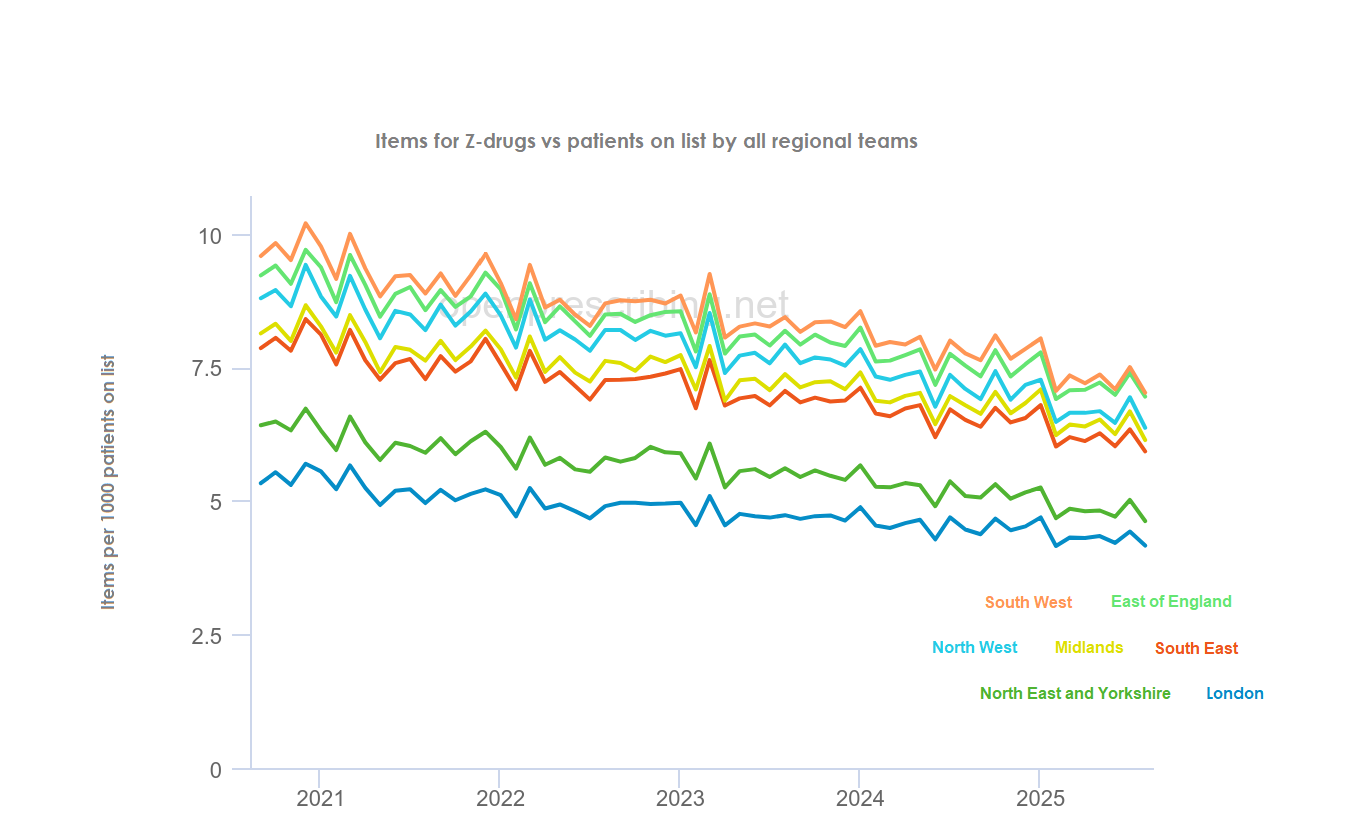
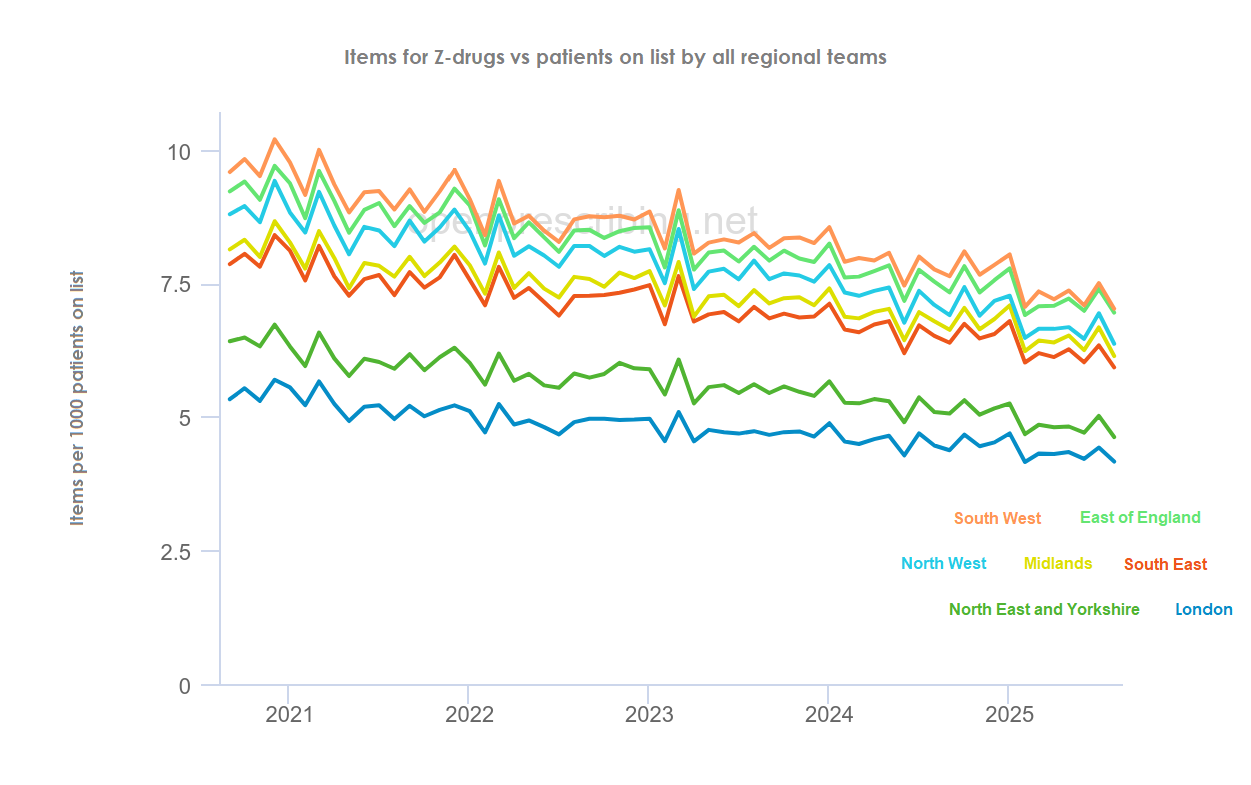
Update website content and layout

diff --git a/posts.html b/posts.html
@@ -78,30 +78,32 @@
            <p><i>~I am curious about prescribing data. </i> </p>
            <p> </p>
            <p> </p>
-           <p> <b>A First Glance at NHS GP Prescribing of Sleep Medications: Z-Drugs (2020–2025) Using OpenPrescribing</b></p>
+           <p> <b>A First Glance at NHS GP Prescribing of Sleep Medications: Z-Drugs (2020-2025) Using OpenPrescribing</b></p>
            <p class="small-text" style="text-align:justify;"> (First Published Online 10 November 2025)</p>
-           <p> I have worked on a range of data-driven projects for some time, OpenPrescribing was entirely new to me.  Curious about who it was built for, how it works, and whether I could find something interesting or inspiring,  I decided to dive in and give it a try. From time to time, I explored OpenPrescribing, mostly to become familiar with its features. I found it to be an excellent example of how simplicity and power can coexist in a well-designed tool, and I was impressed by its clean, intuitive interface and surprisingly strong analytical capabilities.</p>
-           <p>I took a closer look recently at OpenPrescribing after coming across a topic that drew my interest - sleep medications. Although sleeping pills are prescribed to aim sleep and support health, research suggests that deprescribing unnecessary sleep drugs can improve well-being and benefit in older adults [1], as these medications are linked to cognitive decline and increased injury risk [2-5] . Interested in prescribing patterns and potential regional differences, I looked into GP prescriptions in England (2020 - 2025) for Z-drugs (Zopiclone, Zolpidem), commonly used for the short-term treatment of insomnia, using the OpenPrescribing platform.</p>
-           <p>Here’s what I did: In <a href="https://openprescribing.net/"> OpenPrescribing </a>, click “Start analysing” to launch the “Analyse” interface. Enter the drug names and select lists containing all available formulations (tablets, capsules, liquids, and suspensions) across all doses. Then choose “versus – total list size,” highlight “NHS England Region” and click “Show me the data” to generate figures and a downloadable CSV data file. Following this process, I obtained Figure 1 (line chart), which shows the prescribing trend for Z-drugs by region from 2020 to 2025. Figure 2 (map) and Figure 3 (bar chart) present snapshots of prescribing rates across regions in September 2020 and August 2025. </p>
-           <p>My preliminary observations revealed three key findings:</p>
-           <p> Despite periodic ups and downs in prescribing rates across regions, overall prescribing declined gradually, showing a consistent and marked downward trend from 2020 to 2025. A recurrent bimodal seasonal pattern is also evident, characterised by an initial peak in December, a drop in January, and a subsequent rise to a higher peak in March. Finally, there is substantial and persistent regional variation in the prescribing rate, with the South West's average monthly rate (8.5 items per 1,000 patients) consistently being about 1.8 times that of London (4.8 per 1,000) over the 2021–2025 period. </p> 
+           <p>I have worked on a range of data-driven projects for some time, OpenPrescribing was entirely new to me. Curious about who it was built for, how it works, and whether I could find something interesting or inspiring, I decided to dive in and give it a try. Occasionally, I explored OpenPrescribing to familiarize myself with its features. I found it to be an excellent example of how simplicity and functionality can coexist in a well-designed tool, and I was particularly impressed by its clean, intuitive interface and robust analytical capabilities.</p>
+           <p>I took a closer look recently at OpenPrescribing after coming across a topic that drew my interest - sleep medications. Although sleeping pills are prescribed to aim sleep and support health, research suggests that deprescribing unnecessary sleep drugs can improve well-being and benefit in older adults [1], as these medications are linked to cognitive decline and increased injury risk [2-5]. Interested in prescribing patterns and potential regional differences, I looked into GP prescriptions in England (2020-2025) for Z-drugs, commonly used for the short-term treatment of insomnia, using the OpenPrescribing platform.</p>
+           <p>Z drugs - zopiclone, zolpidem and eszopiclone, licensed only for short-term use, are considered when first-line non-drug treatments such as sleep hygiene and cognitive behavioural therapy for insomnia (CBT-I) are insufficient, or as an adjunct to these approaches. Here’s what I did: In <a href="https://openprescribing.net/"> OpenPrescribing </a>, click “Start analysing” to launch the “Analyse” interface. Enter the drug names and select lists containing all available formulations (tablets, capsules, liquids, and suspensions) across all doses. Then choose “versus – total list size,” highlight “NHS England Region” and click “Show me the data” to generate figures and a downloadable CSV data file. Following this process, I obtained Figure 1 (a line chart) showing regional prescribing trends for Z-drugs from 2020 to 2025, from which my preliminary observations revealed three key findings. </p>
+           <p>Despite periodic ups and downs in prescribing rates across regions, overall prescribing declined gradually, showing a consistent and marked downward trend from 2020 to 2025. A recurrent bimodal seasonal pattern is also evident, characterised by an initial peak in December, a drop in January, and a subsequent rise to a higher peak in March. Finally, there is substantial and persistent regional variation in the prescribing rate, with the South West's average monthly rate (8.5 items per 1,000 patients) consistently being about 1.8 times that of London (4.8 per 1,000) over the 2021-2025 period. </p> 
+           <p>Sensitivity analyses - when melatonin (a hormone used to treat short-term sleep problems in adults aged 55+) was added to Z-drugs, London remained the lowest, while the South West remained the highest (Figure 2).
+            When melatonin was included alongside both Z-drugs and hypnotic benzodiazepines (Nitrazepam, Loprazolam, Lormetazepam, Temazepam), London again had the lowest prescribing rate, whereas the East of England and South West were at the top, with the East of England showing slightly higher prescribing rates (Figure 3).</p>
+        
            <p>These visual findings also raise several further questions:</p>
         
            <ul>
-           <li> What factors are driving the overall decline in prescriptions across England? Are policy changes, clinical guidelines, or public awareness campaigns contributing to this decline? </li>
+            <li> What factors are driving the overall decline in prescriptions across England? Are policy changes, clinical guidelines, or public awareness campaigns contributing to this decline? </li>
             <li> What explains the recurring seasonal peaks in December and March, across all regions? Are these seasonal trends driven more by healthcare system practices or actual fluctuations in patient demand?</li>
-            <li>Why do prescribing rates vary regionally, with the South West being the highest and London the lowest? Geographically, the South West is generally more rural than London. Urban areas like London often involve demanding lifestyles (commuting, noise, and fast-paced living), yet stress alone may not necessarily lead to higher prescribing rates. It remains unclear how, and to what extent, regional demographics, healthcare access, socioeconomic factors, or other unmeasured variables influence these differences.</li>
+            <li> Why do prescribing rates vary regionally, with the South West highest, followed by the East of England, and London lowest? Geographically, the South West is generally more rural, whereas London is a densely populated urban area. While urban living can involve demanding lifestyles - such as commuting, noise, and fast-paced routines - that may contribute to stress, these factors alone do not appear to drive higher prescribing rates. It remains unclear how, and to what extent, regional demographics, healthcare access, socioeconomic factors, or other unmeasured variables influence these differences, which merits further study.</li>
            </ul>
-            <p>Sensitivity analyses (2020–2025): When melatonin (a hormone used to treat short-term sleep problems in adults aged 55+) was added to Z-drugs, London remained the lowest, while the South West remained the highest (Figure 2).
-            When melatonin was included alongside both Z-drugs and hypnotic benzodiazepines (Nitrazepam, Loprazolam, Lormetazepam, Temazepam), London again had the lowest prescribing rate, whereas the East of England and South West were at the top, with the East of England showing slightly higher prescribing rates (Figure 3).</p>
-        
-            <p>It is worth noting that the observations so far have focused solely on prescriptions in relation to total list size across regions. The prescribing data can also be examined at other levels - such as by practice, Sub-ICB location, PCN, ICB, or by focusing on specific drugs or BNF sections for more detailed comparisons. The downloadable file enables more extensive and independent offline analysis.</p>
-      
-            <p>To gain more details on these sleep medications, I also explored “Trend for BNF sections”, in chapter 4 (Central Nervous System), under 4.1 <i>Hypnotics and anxiolytics</i>, examining each drug individually, their prescribing items and spending across all practices in England. Zopiclone had substantially higher prescribing activity and costs compared with Zolpidem (Figure 4).
+
+            <p>To gain more details on these sleep medications, I also explored “Trend for BNF sections”, in chapter 4 (Central Nervous System), under 4.1 <i>Hypnotics and anxiolytics</i>, examining each drug individually, their prescribing items and spending across all practices in England. Zopiclone had substantially higher prescribing activity and costs compared with Zolpidem. According to NICE prescribing information (last revised November 2025), Eszopiclone is listed as a Z-drug licensed for the short-term management of insomnia. To date, only a small number of Eszopiclone prescriptions have been recorded, with the earliest appearing in June 2025 (Figure 4).
      
-           <p class="mb-2">Like walking along the beach in search of hidden treasure, I began my first real exploration of the prescribing data with no expectations. The experience proved to be exciting, revealing intriguing findings and questions worth pursuing - whether to inspire future research or to understand the reasons behind them. 
+            <p>It is worth noting that the observations so far have focused solely on prescriptions in relation to total list size across regions. The prescribing data can also be examined at other levels - such as by practice, Sub-ICB location, PCN, ICB, or by focusing on specific drugs or BNF sections for more detailed comparisons. The downloadable file enables more extensive and independent offline analysis.
+              Additionally, the knowledge shared in the open environment acted as a signpost or guide, and I have successfully retrieved relevant data from the English Prescribing Dataset (EPD) for deeper analysis.
+            </p>
+      
+            <p class="mb-2">Like walking along the beach in search of hidden treasure, I began my first real exploration of the prescribing data with no expectations. The experience proved to be exciting, revealing intriguing findings and questions worth pursuing - whether to inspire future research or to understand the reasons behind them. 
             It was an engaging and rewarding journey of discovery, made possible by OpenPrescribing - an open, rapid and highly valuable platform that unlocks insights into prescribing practices, facilitates the identification of trends, variations, and regional differences, and highlights potential areas for intervention to enhance healthcare delivery.</p>
-           <p></p>
+            <p></p>
 
          <div class="row">
            <div class="col-md-6 d-flex flex-column align-items-start"> 
@@ -122,14 +124,11 @@
              </div>  
       
            <div class="col-md-6 d-flex flex-column align-items-center"> 
-             <img src="/assets/img/items_Zopiclone_Zolpidem_2020_2025.png" alt="Figure4" class="responsive-img">
-             <p class="small-text text-center">Figure 4: Total prescribing items for Z-drugs cross all practices in England (2020 - 2025) </p>
+             <img src="/assets/img/items_spending_Zopiclone_Zolpidem_Eszopiclone.png" alt="Figure4" class="responsive-img">
+             <p class="small-text text-center">Figure 4: Total prescribing items and spending for Z-drugs cross all practices in England (2020 - 2025) </p>
             </div>
          </div>
-           <div class="col-md-6 d-flex flex-column align-items-center"> 
-             <img src="/assets/img/spending_Zopiclone_Zolpidem_2020_2025.png" alt="Figure5" class="responsive-img">
-             <p class="small-text text-center">Figure 5: Total spending for Z-drugs cross all practices in England (2020 - 2025) </p>
-            </div>
+
 
          </div>
              <nav class="d-inline-flex mt-2 mt-md-0 ms-md-auto"> <a class="me-3 py-2 text-decoration-none" href="posts2.html"> Next Post </a> </nav>

diff --git a/posts2.html b/posts2.html
@@ -194,10 +194,10 @@
 
     <div class="col-md-6">
         <p class="mt-0"> <b>Share analysis</b></p>
-        <p class="small-text"> <a style="text-decoration: none; display: inline-block;" href="https://openprescribing.net/analyse/#org=regional_team&numIds=0401010Z0,0401010Z0AA,0401010Z0AAAJAJ,0401010Z0AAACAC,0401010Z0AAABAB,0401010Z0AAAKAK,0401010Z0AAAMAM,0401010Z0AAALAL,0401010Z0AAAAAA,0401010Z0BBAAAA,0401010Z0BBABAC,0401010Y0,0401010Y0AA,0401010Y0AAAEAE,0401010Y0AAABAB,0401010Y0AAACAC,0401010Y0AAADAD,0401010Y0AAAAAA,0401010R0AAAUAU,0401010R0AAAAAA,0401010R0AAAQAQ,0401010R0AAAVAV,0401010R0AAATAT,0401010R0AAAXAX,0401010R0AAACAC,0401010R0AAANAN,0401010R0BD,0401010R0BDAAAC,0401010N0,0401010N0AA,0401010N0AAAAAA,0401010P0AAAHAH,0401010P0AAAGAG,0401010P0AAACAC,0401010P0AAAFAF,0401010P0AAABAB,0401010T0AAAEAE,0401010T0AAAMAM,0401010T0AAANAN,0401010T0,0401010T0AA&denom=total_list_size&selectedTab=summary"> Z-drugs + Benzodiazepines</a> &nbsp; &nbsp;
-          <a style="text-decoration: none;" href="https://openprescribing.net/analyse/#org=regional_team&numIds=0401010Z0,0401010Z0AA,0401010Z0AAAJAJ,0401010Z0AAACAC,0401010Z0AAABAB,0401010Z0AAAKAK,0401010Z0AAAMAM,0401010Z0AAALAL,0401010Z0AAAAAA,0401010Z0BBAAAA,0401010Z0BBABAC,0401010Y0,0401010Y0AA,0401010Y0AAAEAE,0401010Y0AAABAB,0401010Y0AAACAC,0401010Y0AAADAD,0401010Y0AAAAAA&denom=total_list_size&selectedTab=summary"> Z-drugs </a> &nbsp; &nbsp;&nbsp;
-          <a style="text-decoration: none; display: inlineblock;" href="https://openprescribing.net/analyse/#org=regional_team&numIds=0401010ADBC,0401010ADBCBZCY,0401010ADBCCACY,0401010ADBCCDAE,0401010ADBCCBBR,0401010ADBCCEBS,040101000BBAQA0,0401010ADAACDCD,0401010ADAACECE,0401010ADAAAKAK,0401010ADAACNCN,0401010ADAABTBT,0401010ADAABQBQ,0401010ADAACTCT,0401010ADAACZCZ,0401010ADAACUCU,0401010ADAAAIAI,0401010ADAABMBM,0401010ADAACFCF,0401010ADAACGCG,0401010ADAAAHAH,0401010ADAACRCR,0401010ADAABYBY,0401010ADAABZBZ,0401010ADAAAEAE,0401010ADAADFDF,0401010ADAACHCH,0401010ADAAAAAA,0401010ADAABKBK,0401010ADAACACA,0401010ADAACBCB,0401010ADAABRBR,0401010ADAABIBI,0401010ADAAAJAJ,0401010ADAAAQAQ,0401010ADAACCCC,0401010ADAACYCY,0401010ADAABGBG,0401010ADAADCDC,0401010ADAAAUAU,0401010ADAACPCP,0401010ADAAACAC,0401010ADAAASAS,0401010ADAADADA,0401010ADAADDDD,0401010ADAADEDE,0401010ADAABSBS,0401010ADAACVCV,0401010ADAABLBL,0401010ADAABWBW,0401010ADAABVBV,0401010ADAACXCX,0401010ADAACQCQ,0401010ADAACICI,0401010ADAACLCL,0401010ADAACMCM,0401010ADAACSCS,0401010ADAABJBJ,0401010ADAACWCW,0401010ADBCCCBL,0401010ADBB,0401010ADBBAAAA,0401010ADBG,0401010ADBGAAAI,0401010ADBGABBK,0401010ADBGACCY,0401010ADBGADCP,0401010ADBGAEBL,0401010ADBF,0401010ADBFABCZ,0401010ADBFAACY,0401010ADBD,0401010ADBDAACU,0401010ADBDABCV,0401010ADBE,0401010ADBEAACY,0401010Z0,0401010Z0AA,0401010Z0AAAJAJ,0401010Z0AAACAC,0401010Z0AAABAB,0401010Z0AAAKAK,0401010Z0AAAMAM,0401010Z0AAALAL,0401010Z0AAAAAA,0401010Z0BBAAAA,0401010Z0BBABAC,0401010Y0,0401010Y0AA,0401010Y0AAAEAE,0401010Y0AAABAB,0401010Y0AAACAC,0401010Y0AAADAD,0401010Y0AAAAAA&denom=total_list_size&selectedTab=summary"> Z-drugs + Melatonin </a> &nbsp; &nbsp;
-          <a style="text-decoration: none; display: inline-block;" href="https://openprescribing.net/analyse/#org=regional_team&numIds=0401010Z0,0401010Z0AA,0401010Z0AAAJAJ,0401010Z0AAACAC,0401010Z0AAABAB,0401010Z0AAAKAK,0401010Z0AAAMAM,0401010Z0AAALAL,0401010Z0AAAAAA,0401010Z0BBAAAA,0401010Z0BBABAC,0401010Y0,0401010Y0AA,0401010Y0AAAEAE,0401010Y0AAABAB,0401010Y0AAACAC,0401010Y0AAADAD,0401010Y0AAAAAA,0401010R0AAAUAU,0401010R0AAAAAA,0401010R0AAAQAQ,0401010R0AAAVAV,0401010R0AAATAT,0401010R0AAAXAX,0401010R0AAACAC,0401010R0AAANAN,0401010R0BD,0401010R0BDAAAC,0401010N0,0401010N0AA,0401010N0AAAAAA,0401010P0AAAHAH,0401010P0AAAGAG,0401010P0AAACAC,0401010P0AAAFAF,0401010P0AAABAB,0401010T0AAAEAE,0401010T0AAAMAM,0401010T0AAANAN,0401010T0,0401010T0AA,0401010ADBC,0401010ADBCBZCY,0401010ADBCCACY,0401010ADBCCDAE,0401010ADBCCBBR,0401010ADBCCEBS,040101000BBAQA0,0401010ADAACDCD,0401010ADAACECE,0401010ADAAAKAK,0401010ADAACNCN,0401010ADAABTBT,0401010ADAABQBQ,0401010ADAACTCT,0401010ADAACZCZ,0401010ADAACUCU,0401010ADAABMBM,0401010ADAAAIAI,0401010ADAACFCF,0401010ADAACGCG,0401010ADAACRCR,0401010ADAABYBY,0401010ADAABZBZ,0401010ADAAAHAH,0401010ADAAAEAE,0401010ADAADFDF,0401010ADAACHCH,0401010ADAABKBK,0401010ADAACACA,0401010ADAACBCB,0401010ADAABRBR,0401010ADAABIBI,0401010ADAAAJAJ,0401010ADAAAQAQ,0401010ADAACCCC,0401010ADAACYCY,0401010ADAADCDC,0401010ADAAAUAU,0401010ADAACPCP,0401010ADAAACAC,0401010ADAAASAS,0401010ADAADADA,0401010ADAADDDD,0401010ADAADEDE,0401010ADAABSBS,0401010ADAACVCV,0401010ADAABLBL,0401010ADAABWBW,0401010ADAABVBV,0401010ADAACXCX,0401010ADAACQCQ,0401010ADAACICI,0401010ADAACLCL,0401010ADAACMCM,0401010ADAACSCS,0401010ADAABJBJ,0401010ADAACWCW,0401010ADBCCCBL,0401010ADAABGBG,0401010ADAAAAAA,0401010ADBB,0401010ADBBAAAA,0401010ADBD,0401010ADBDAACU,0401010ADBDABCV,0401010ADBG,0401010ADBGAAAI,0401010ADBGABBK,0401010ADBGACCY,0401010ADBGADCP,0401010ADBGAEBL,0401010ADBF,0401010ADBFABCZ,0401010ADBFAACY,0401010ADBE,0401010ADBEAACY&denom=total_list_size&selectedTab=summary"> Z-drugs + Benzodiazepines + Melatonin</a> &nbsp; &nbsp;
+        <p class="small-text"> <a style="text-decoration: none; display: inline-block;" href="https://openprescribing.net/analyse/#org=regional_team&numIds=0401010AE,0401010AEAA,0401010AEAAAAAA,0401010AEAAABAB,0401010AEAAACAC,0401010Z0,0401010Z0AA,0401010Z0AAAJAJ,0401010Z0AAACAC,0401010Z0AAABAB,0401010Z0AAAKAK,0401010Z0AAAMAM,0401010Z0AAALAL,0401010Z0AAAAAA,0401010Z0BBAAAA,0401010Z0BBABAC,0401010Y0,0401010Y0AA,0401010Y0AAAEAE,0401010Y0AAABAB,0401010Y0AAACAC,0401010Y0AAADAD,0401010Y0AAAAAA,0401010R0AAAUAU,0401010R0AAAAAA,0401010R0AAAQAQ,0401010R0AAAVAV,0401010R0AAATAT,0401010R0AAAXAX,0401010R0AAACAC,0401010R0AAANAN,0401010R0BD,0401010R0BDAAAC,0401010N0,0401010N0AA,0401010N0AAAAAA,0401010P0AAAHAH,0401010P0AAAGAG,0401010P0AAACAC,0401010P0AAAFAF,0401010P0AAABAB,0401010T0AAAEAE,0401010T0AAAMAM,0401010T0AAANAN,0401010T0,0401010T0AA&denom=total_list_size&selectedTab=summary"> Z-drugs + Benzodiazepines</a> &nbsp; &nbsp;
+          <a style="text-decoration: none;" href="https://openprescribing.net/analyse/#org=regional_team&numIds=0401010Z0,0401010Z0AA,0401010Z0AAAJAJ,0401010Z0AAACAC,0401010Z0AAABAB,0401010Z0AAAKAK,0401010Z0AAAMAM,0401010Z0AAALAL,0401010Z0AAAAAA,0401010Z0BBAAAA,0401010Z0BBABAC,0401010Y0,0401010Y0AA,0401010Y0AAAEAE,0401010Y0AAABAB,0401010Y0AAACAC,0401010Y0AAADAD,0401010Y0AAAAAA,0401010AE,0401010AEAA,0401010AEAAAAAA,0401010AEAAABAB,0401010AEAAACAC&denom=total_list_size&selectedTab=summary"> Z-drugs </a> &nbsp; &nbsp;&nbsp;
+          <a style="text-decoration: none; display: inlineblock;" href="https://openprescribing.net/analyse/#org=regional_team&numIds=0401010AE,0401010AEAA,0401010AEAAAAAA,0401010AEAAABAB,0401010AEAAACAC,0401010ADBC,0401010ADBCBZCY,0401010ADBCCACY,0401010ADBCCDAE,0401010ADBCCBBR,0401010ADBCCEBS,040101000BBAQA0,0401010ADAACDCD,0401010ADAACECE,0401010ADAAAKAK,0401010ADAACNCN,0401010ADAABTBT,0401010ADAABQBQ,0401010ADAACTCT,0401010ADAACZCZ,0401010ADAACUCU,0401010ADAAAIAI,0401010ADAABMBM,0401010ADAACFCF,0401010ADAACGCG,0401010ADAAAHAH,0401010ADAACRCR,0401010ADAABYBY,0401010ADAABZBZ,0401010ADAAAEAE,0401010ADAADFDF,0401010ADAACHCH,0401010ADAAAAAA,0401010ADAABKBK,0401010ADAACACA,0401010ADAACBCB,0401010ADAABRBR,0401010ADAABIBI,0401010ADAAAJAJ,0401010ADAAAQAQ,0401010ADAACCCC,0401010ADAACYCY,0401010ADAABGBG,0401010ADAADCDC,0401010ADAAAUAU,0401010ADAACPCP,0401010ADAAACAC,0401010ADAAASAS,0401010ADAADADA,0401010ADAADDDD,0401010ADAADEDE,0401010ADAABSBS,0401010ADAACVCV,0401010ADAABLBL,0401010ADAABWBW,0401010ADAABVBV,0401010ADAACXCX,0401010ADAACQCQ,0401010ADAACICI,0401010ADAACLCL,0401010ADAACMCM,0401010ADAACSCS,0401010ADAABJBJ,0401010ADAACWCW,0401010ADBCCCBL,0401010ADBB,0401010ADBBAAAA,0401010ADBG,0401010ADBGAAAI,0401010ADBGABBK,0401010ADBGACCY,0401010ADBGADCP,0401010ADBGAEBL,0401010ADBF,0401010ADBFABCZ,0401010ADBFAACY,0401010ADBD,0401010ADBDAACU,0401010ADBDABCV,0401010ADBE,0401010ADBEAACY,0401010Z0,0401010Z0AA,0401010Z0AAAJAJ,0401010Z0AAACAC,0401010Z0AAABAB,0401010Z0AAAKAK,0401010Z0AAAMAM,0401010Z0AAALAL,0401010Z0AAAAAA,0401010Z0BBAAAA,0401010Z0BBABAC,0401010Y0,0401010Y0AA,0401010Y0AAAEAE,0401010Y0AAABAB,0401010Y0AAACAC,0401010Y0AAADAD,0401010Y0AAAAAA&denom=total_list_size&selectedTab=summary"> Z-drugs + Melatonin </a> &nbsp; &nbsp;
+          <a style="text-decoration: none; display: inline-block;" href="https://openprescribing.net/analyse/#org=regional_team&numIds=0401010AE,0401010AEAA,0401010AEAAAAAA,0401010AEAAABAB,0401010AEAAACAC,0401010Z0,0401010Z0AA,0401010Z0AAAJAJ,0401010Z0AAACAC,0401010Z0AAABAB,0401010Z0AAAKAK,0401010Z0AAAMAM,0401010Z0AAALAL,0401010Z0AAAAAA,0401010Z0BBAAAA,0401010Z0BBABAC,0401010Y0,0401010Y0AA,0401010Y0AAAEAE,0401010Y0AAABAB,0401010Y0AAACAC,0401010Y0AAADAD,0401010Y0AAAAAA,0401010R0AAAUAU,0401010R0AAAAAA,0401010R0AAAQAQ,0401010R0AAAVAV,0401010R0AAATAT,0401010R0AAAXAX,0401010R0AAACAC,0401010R0AAANAN,0401010R0BD,0401010R0BDAAAC,0401010N0,0401010N0AA,0401010N0AAAAAA,0401010P0AAAHAH,0401010P0AAAGAG,0401010P0AAACAC,0401010P0AAAFAF,0401010P0AAABAB,0401010T0AAAEAE,0401010T0AAAMAM,0401010T0AAANAN,0401010T0,0401010T0AA,0401010ADBC,0401010ADBCBZCY,0401010ADBCCACY,0401010ADBCCDAE,0401010ADBCCBBR,0401010ADBCCEBS,040101000BBAQA0,0401010ADAACDCD,0401010ADAACECE,0401010ADAAAKAK,0401010ADAACNCN,0401010ADAABTBT,0401010ADAABQBQ,0401010ADAACTCT,0401010ADAACZCZ,0401010ADAACUCU,0401010ADAABMBM,0401010ADAAAIAI,0401010ADAACFCF,0401010ADAACGCG,0401010ADAACRCR,0401010ADAABYBY,0401010ADAABZBZ,0401010ADAAAHAH,0401010ADAAAEAE,0401010ADAADFDF,0401010ADAACHCH,0401010ADAABKBK,0401010ADAACACA,0401010ADAACBCB,0401010ADAABRBR,0401010ADAABIBI,0401010ADAAAJAJ,0401010ADAAAQAQ,0401010ADAACCCC,0401010ADAACYCY,0401010ADAADCDC,0401010ADAAAUAU,0401010ADAACPCP,0401010ADAAACAC,0401010ADAAASAS,0401010ADAADADA,0401010ADAADDDD,0401010ADAADEDE,0401010ADAABSBS,0401010ADAACVCV,0401010ADAABLBL,0401010ADAABWBW,0401010ADAABVBV,0401010ADAACXCX,0401010ADAACQCQ,0401010ADAACICI,0401010ADAACLCL,0401010ADAACMCM,0401010ADAACSCS,0401010ADAABJBJ,0401010ADAACWCW,0401010ADBCCCBL,0401010ADAABGBG,0401010ADAAAAAA,0401010ADBB,0401010ADBBAAAA,0401010ADBD,0401010ADBDAACU,0401010ADBDABCV,0401010ADBG,0401010ADBGAAAI,0401010ADBGABBK,0401010ADBGACCY,0401010ADBGADCP,0401010ADBGAEBL,0401010ADBF,0401010ADBFABCZ,0401010ADBFAACY,0401010ADBE,0401010ADBEAACY&denom=total_list_size&selectedTab=summary"> Z-drugs + Benzodiazepines + Melatonin</a> &nbsp; &nbsp;
           <a style="text-decoration: none; display: inline-block;" href="https://openprescribing.net/chemical/0401010T0/"> Temazepam </a> </p>
       </div>
   <p>  </p>
